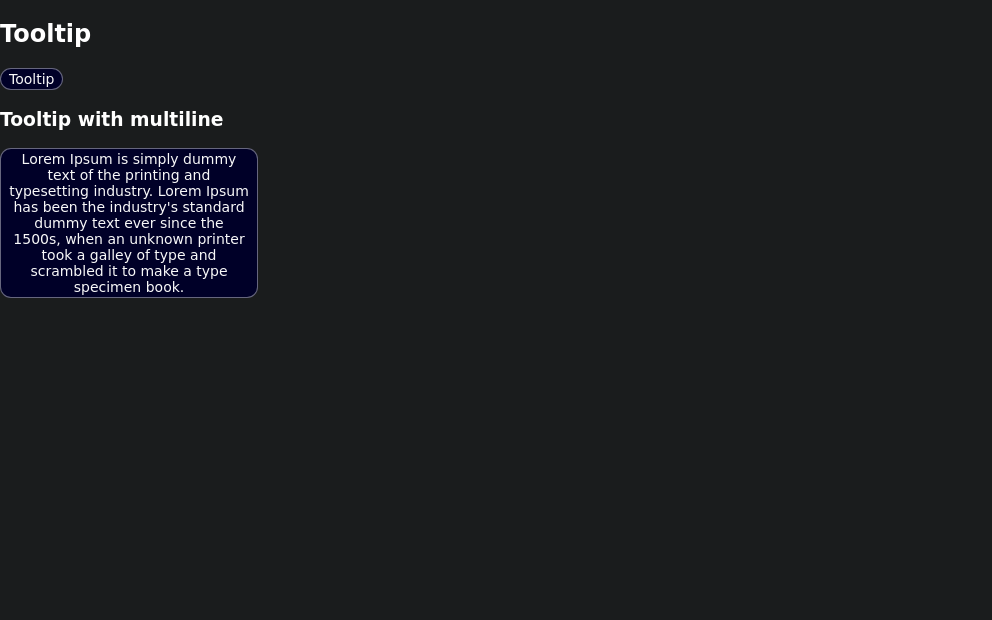
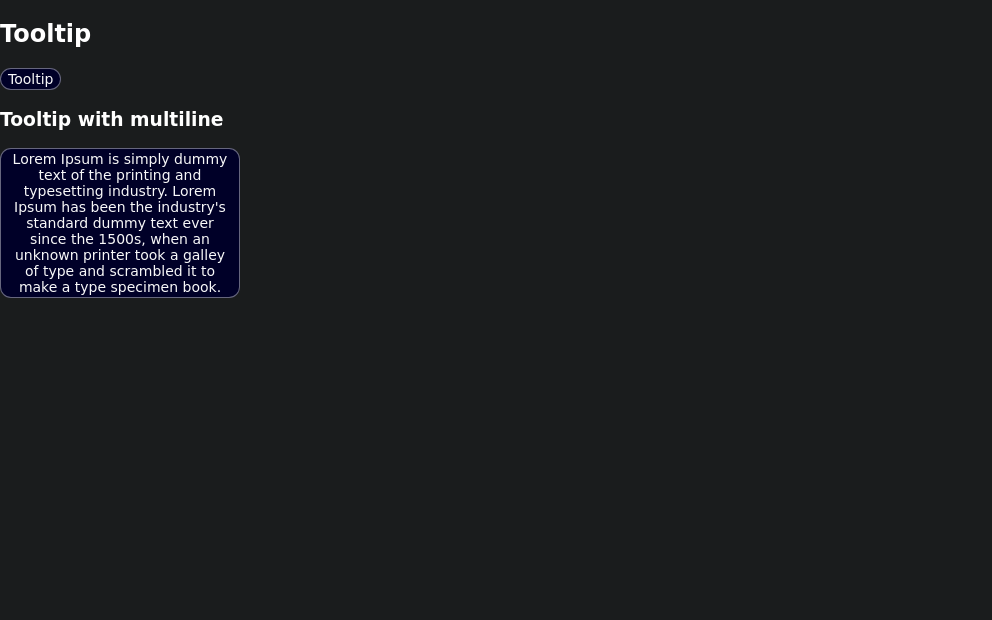
Fix max-width 240px (#231)
* Fix max-width 240px

* Fix circleci dark and condensed

Changed region(s): [[0.0, 0.2145, 0.2812, 0.4903], [0.0, 0.1226, 0.0625, 0.1532]]

diff --git a/src/components/atoms/_tooltip.scss b/src/components/atoms/_tooltip.scss
@@ -9,12 +9,12 @@
   justify-content: space-between;
   line-height: toRem(16);
   padding-bottom: toRem(2);
-  padding-left: toRem(8);
-  padding-right: toRem(8);
+  padding-left: toRem(7);
+  padding-right: toRem(7);
   padding-top: toRem(2);
   text-align: center;
   width: fit-content;
-  max-width: toRem(240);
+  max-width: toRem(224);
   z-index: $z-index-tooltip;
   overflow-wrap: break-word;
 
